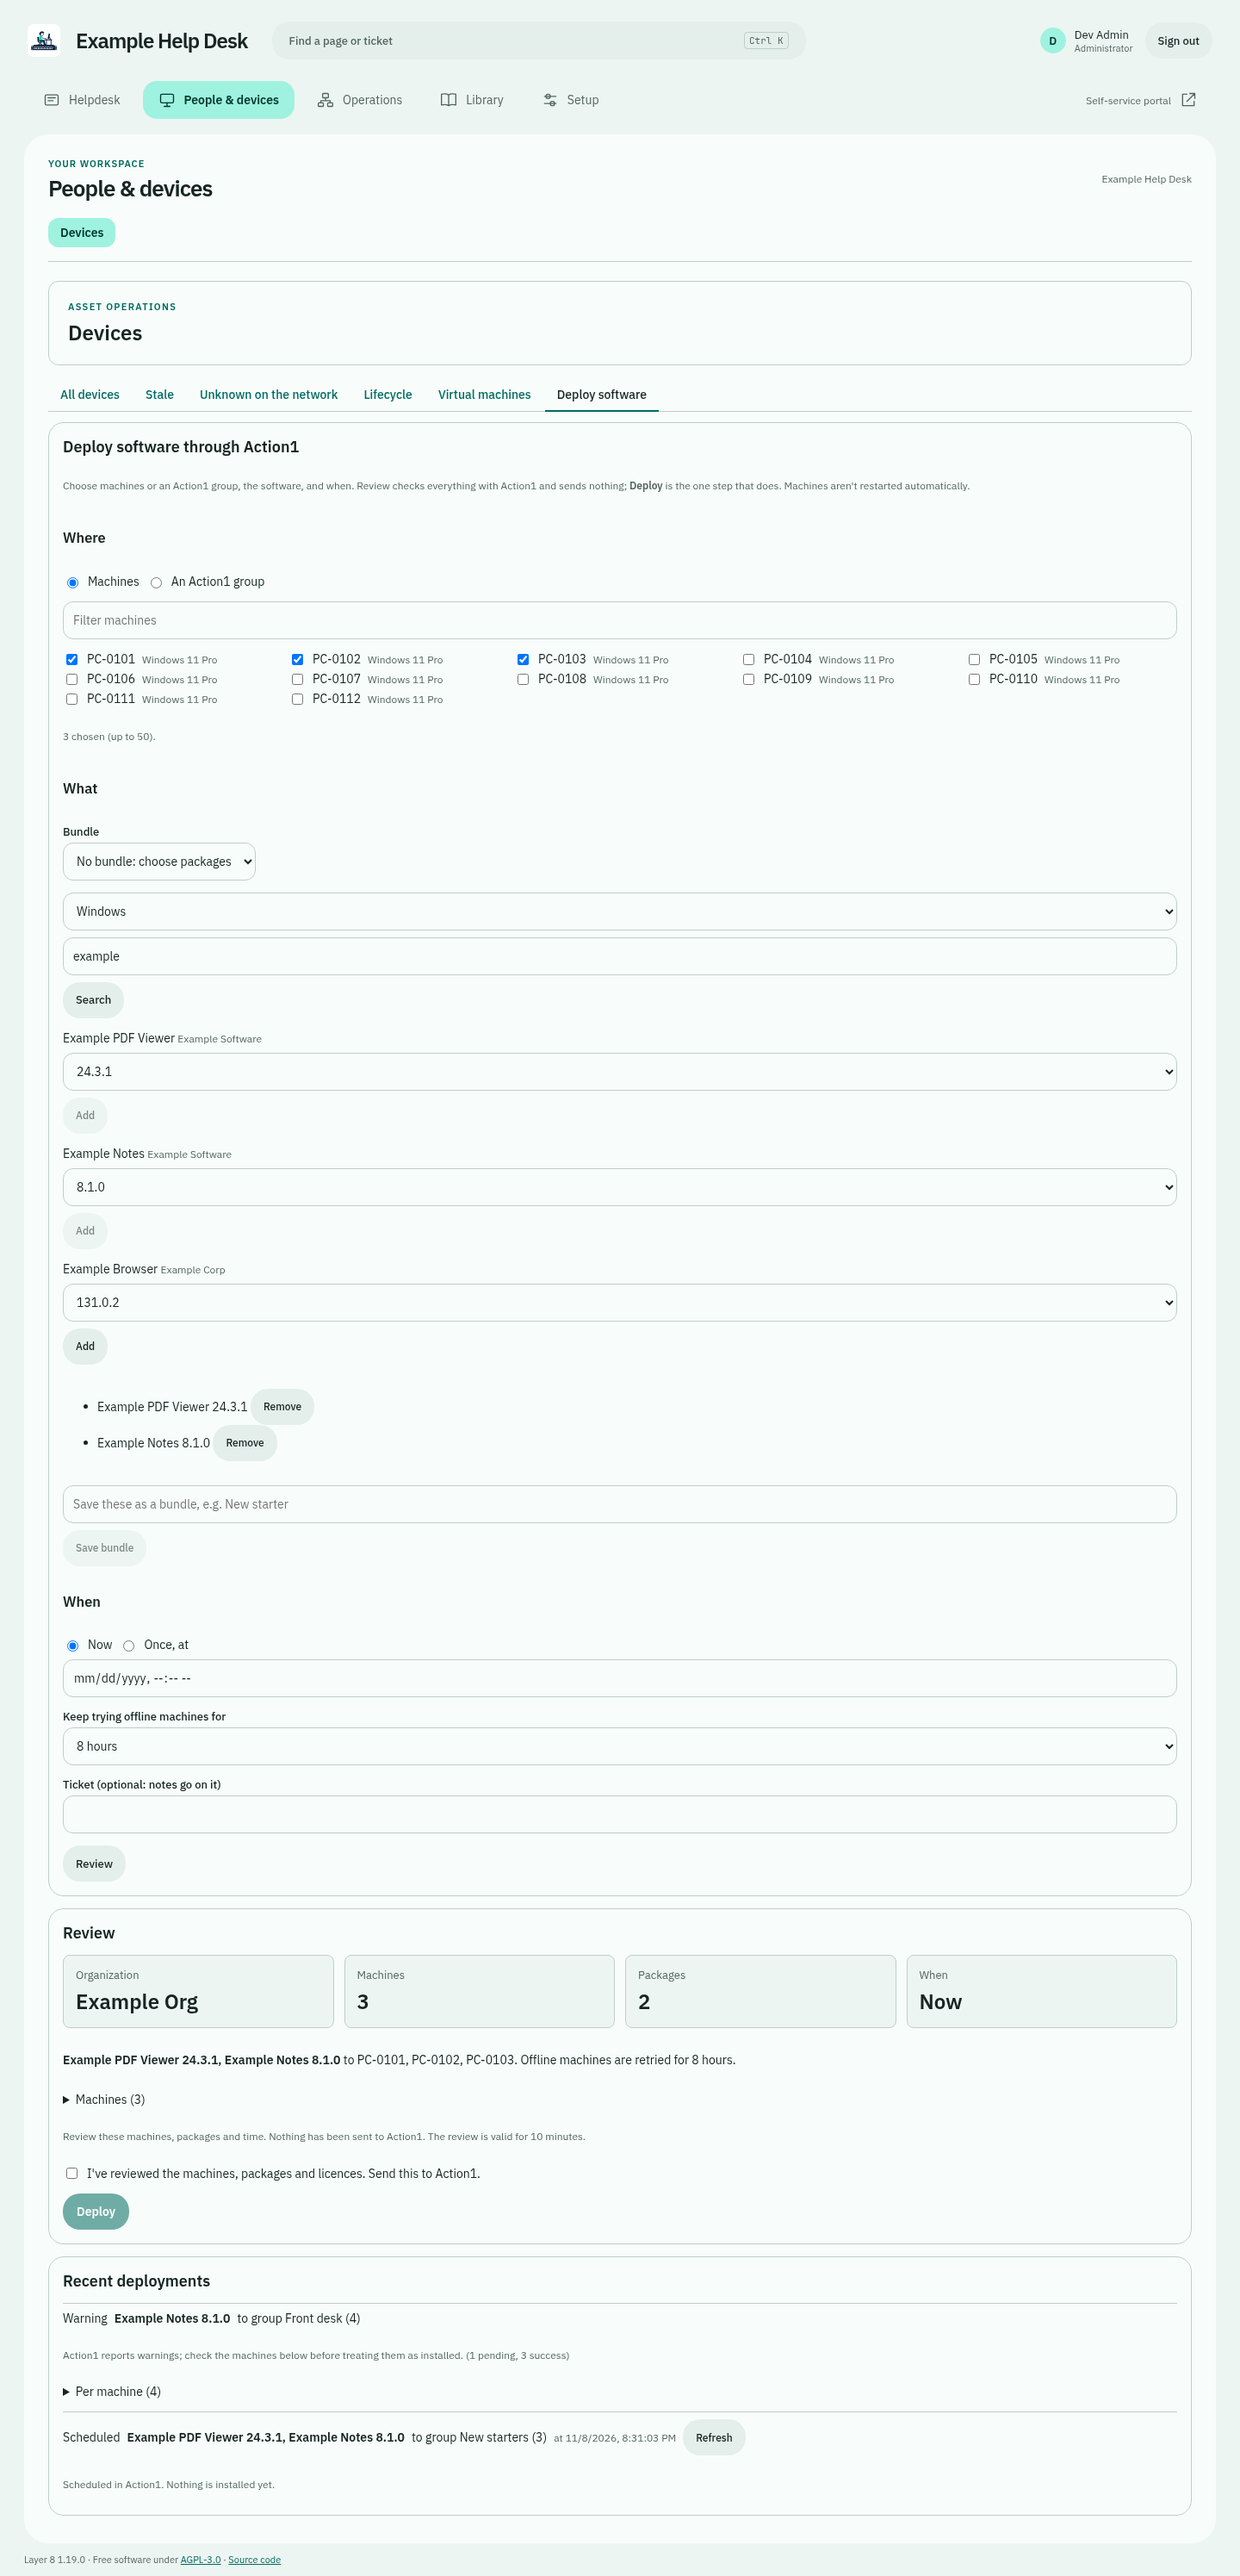
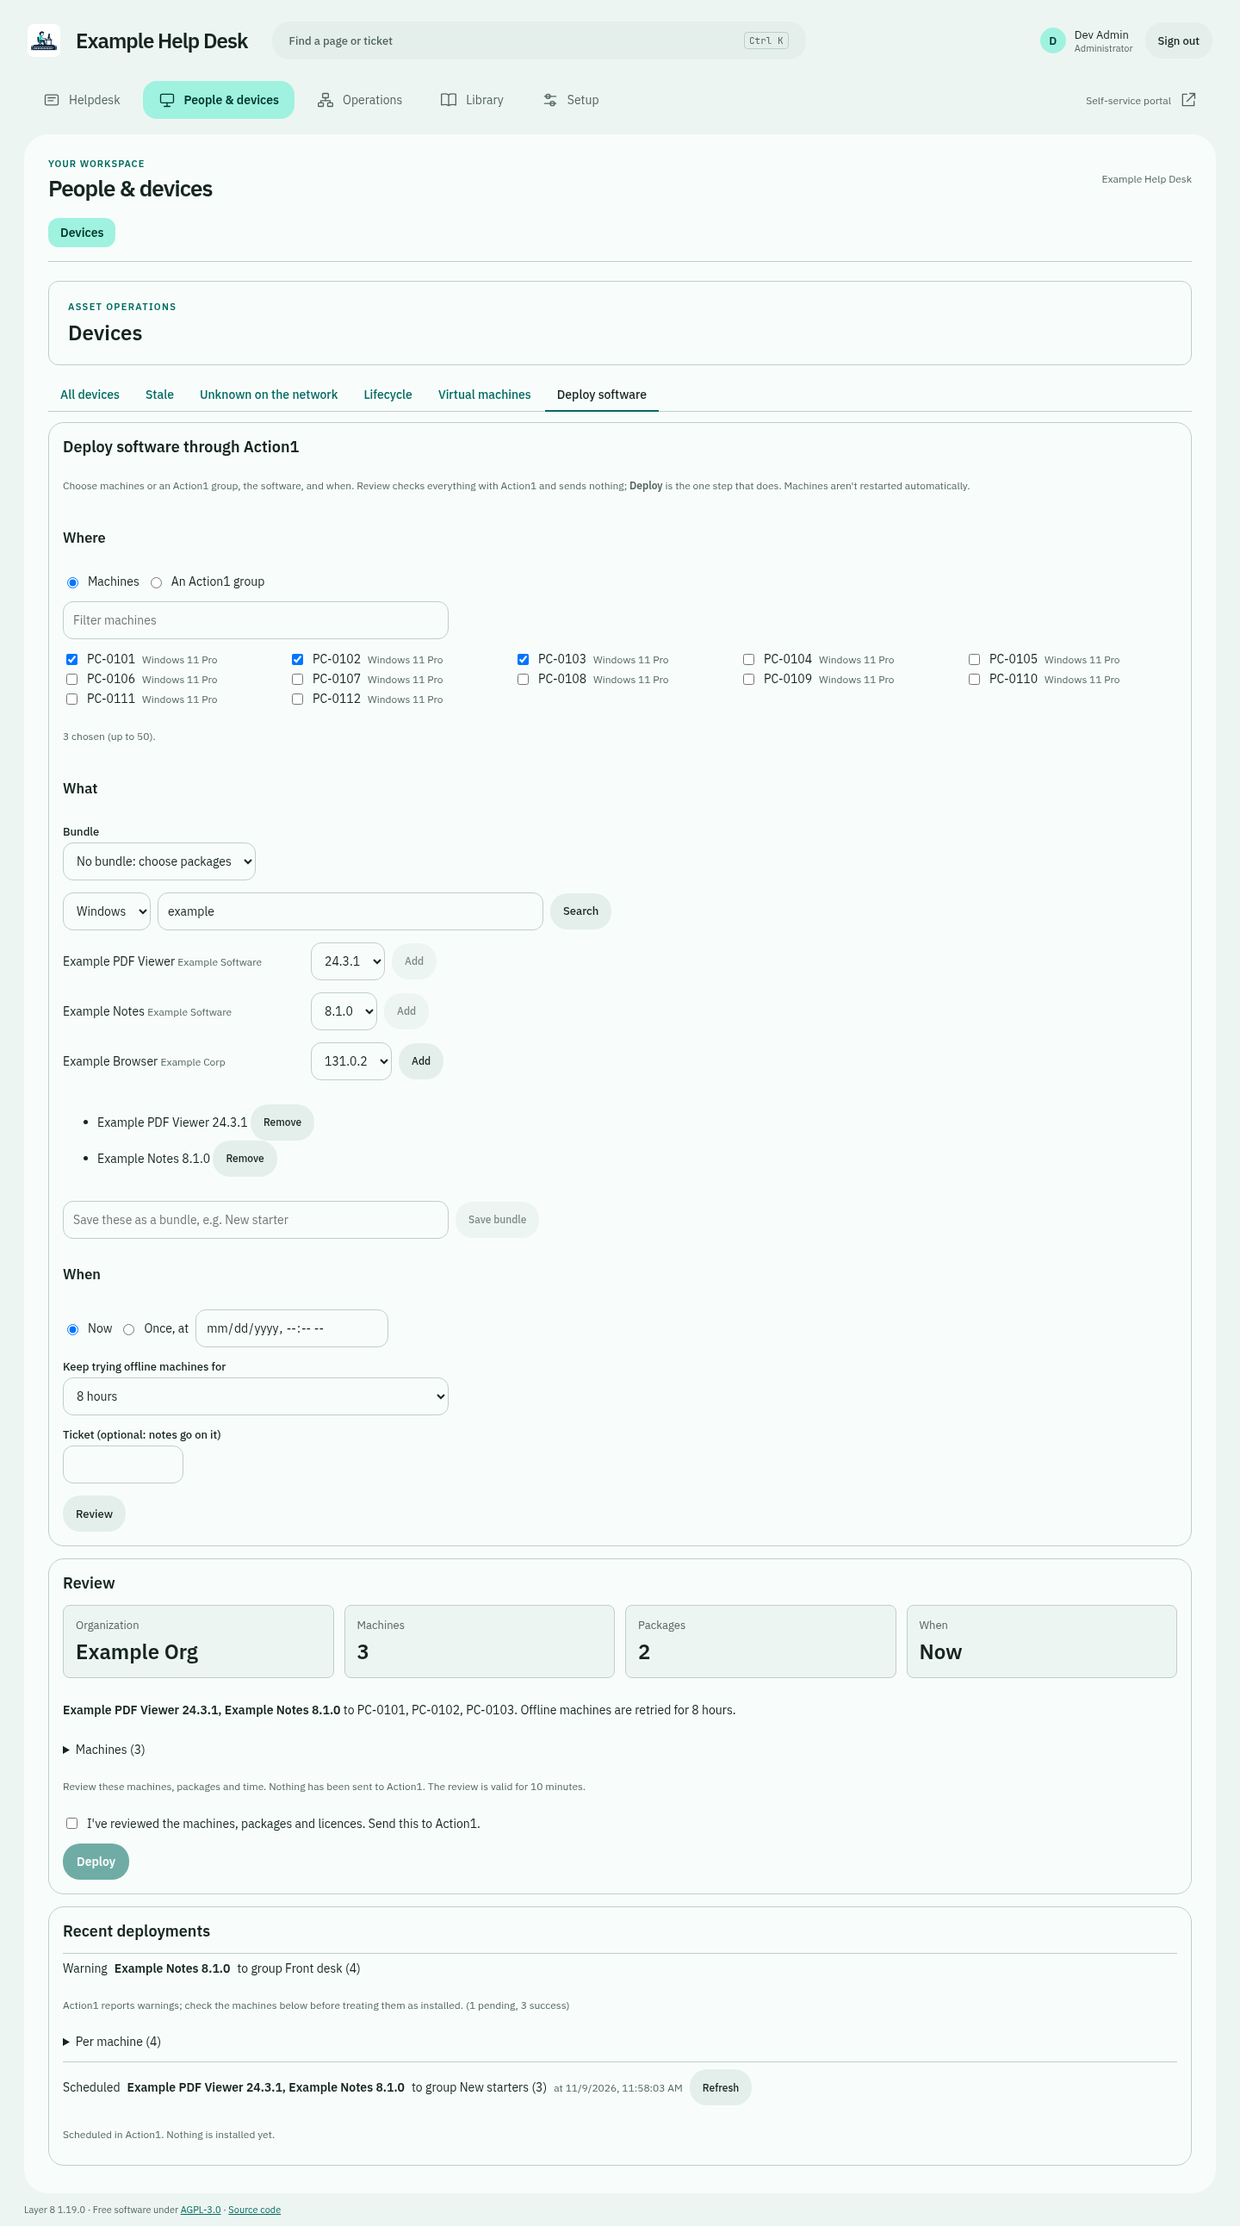
Deploy software: size fields to their content
Inputs and selects are full width by default, so on Devices > Deploy
software each control in a row wrapped onto its own full-width line.
Scope widths to the deploy form: platform and version selects fit their
text, search and bundle name share a row with their button, the date
sits beside its radio, and standalone fields stop at 32rem (ticket 10rem).
Screenshot retaken.

diff --git a/frontend/src/styles.css b/frontend/src/styles.css
@@ -7,6 +7,12 @@
 .import-report { white-space:pre-wrap; overflow-wrap:anywhere; max-height:28rem; overflow:auto; }
 .row-actions { display:flex; flex-wrap:wrap; gap:8px; align-items:center; }
 .deploy-machines { display:grid; grid-template-columns:repeat(auto-fill, minmax(220px, 1fr)); gap:4px 16px; max-height:18rem; overflow:auto; }
+.deploy-form .row-actions > :is(input, select) { width:auto; flex:0 1 auto; }
+.deploy-form .row-actions > input:not([type=radio]):not([type=checkbox]):not([type=datetime-local]) { flex:1 1 16rem; max-width:32rem; }
+.deploy-form .row-actions > input[type=datetime-local] { flex:0 0 auto; }
+.deploy-form .field > input[inputmode=numeric] { max-width:10rem; }
+.deploy-form .row-actions > span:first-child { flex:0 1 20rem; }
+.deploy-form > :is(input, .field), .deploy-form .field > :is(input, select) { max-width:32rem; }
 .deploy-run { border-top:1px solid var(--line, #ddd); padding-top:8px; }
 /* Ported from gui-sample/. Desktop first; usable on a tablet. */
 :root, .theme-preview[data-theme="light"] {

diff --git a/frontend/src/pages/devices/DeploySoftware.tsx b/frontend/src/pages/devices/DeploySoftware.tsx
@@ -83,7 +83,7 @@ export function DeploySoftware({ me }: { me: Me }) {
   const busy = previewM.isPending || submitM.isPending;
 
   return <div className="stack">
-    <section className="card stack" aria-label="Deploy software through Action1">
+    <section className="card stack deploy-form" aria-label="Deploy software through Action1">
       <h2>Deploy software through Action1</h2>
       <p className="muted small">Choose machines or an Action1 group, the software, and when. Review checks everything with Action1 and sends nothing; <strong>Deploy</strong> is the one step that does. Machines aren't restarted automatically.</p>
       {(orgs.data?.length ?? 0) > 1 && <label className="field">Organization<select value={org} onChange={e => { setOrg(e.target.value); setPicked([]); setGroup(""); setChosen([]); setBundle(""); changed(); }}>
